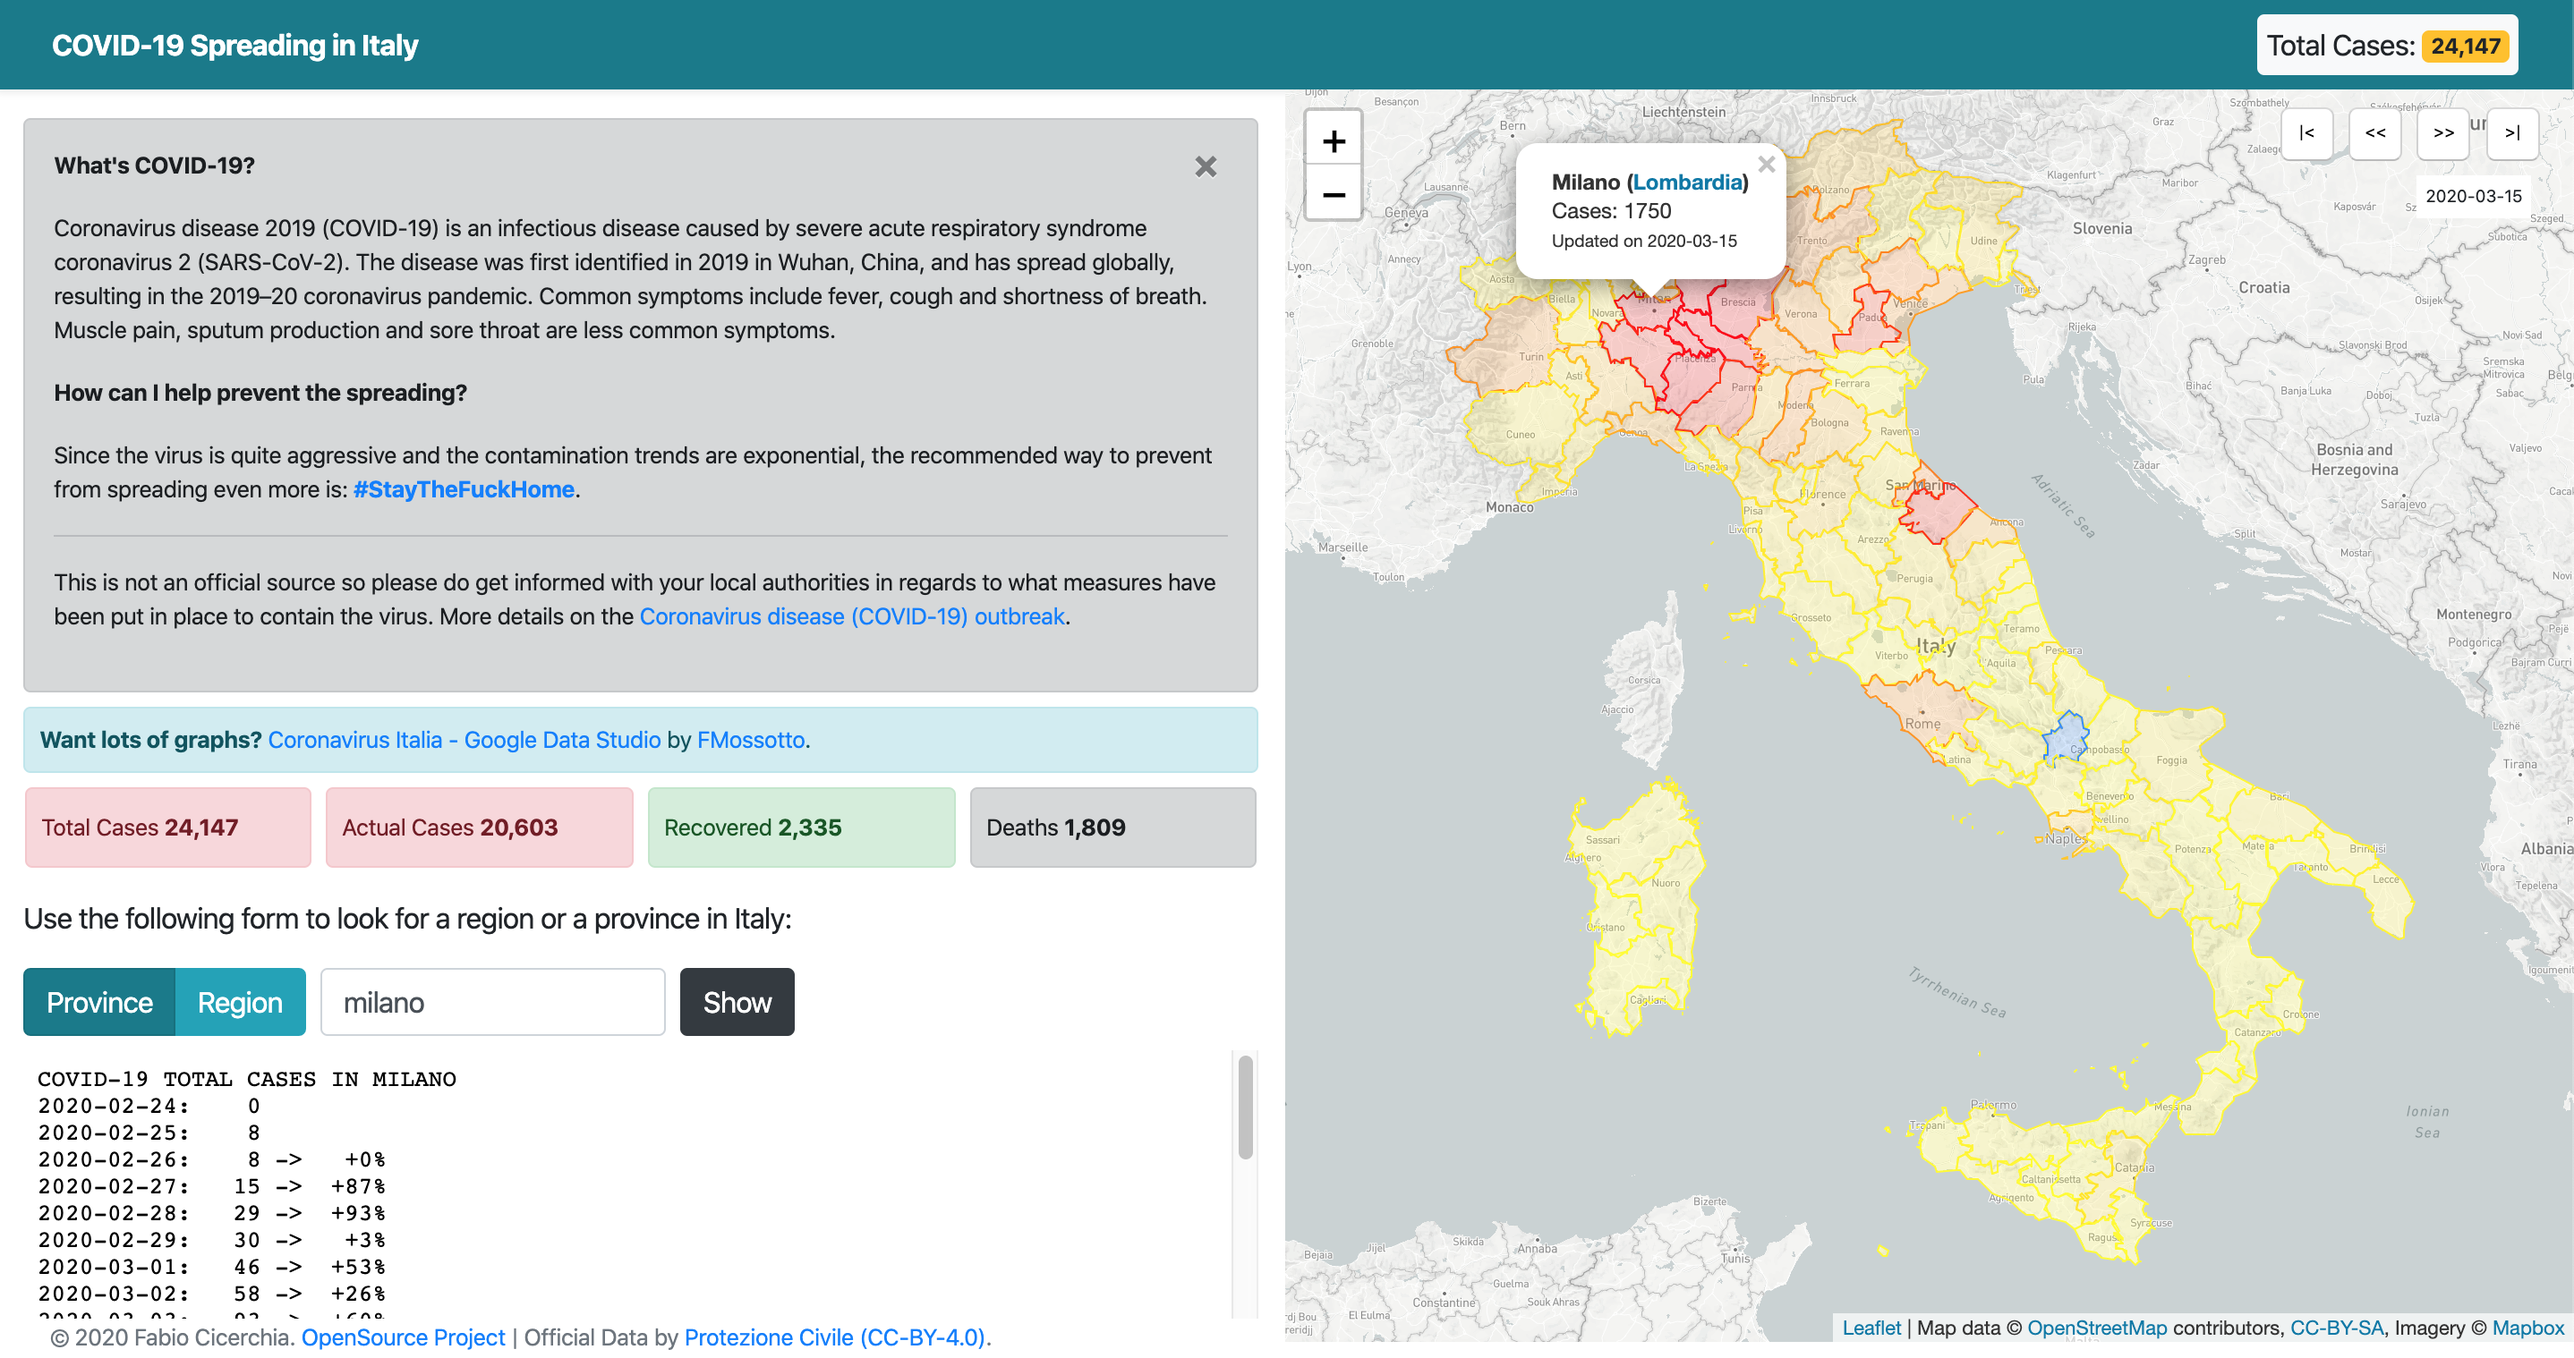
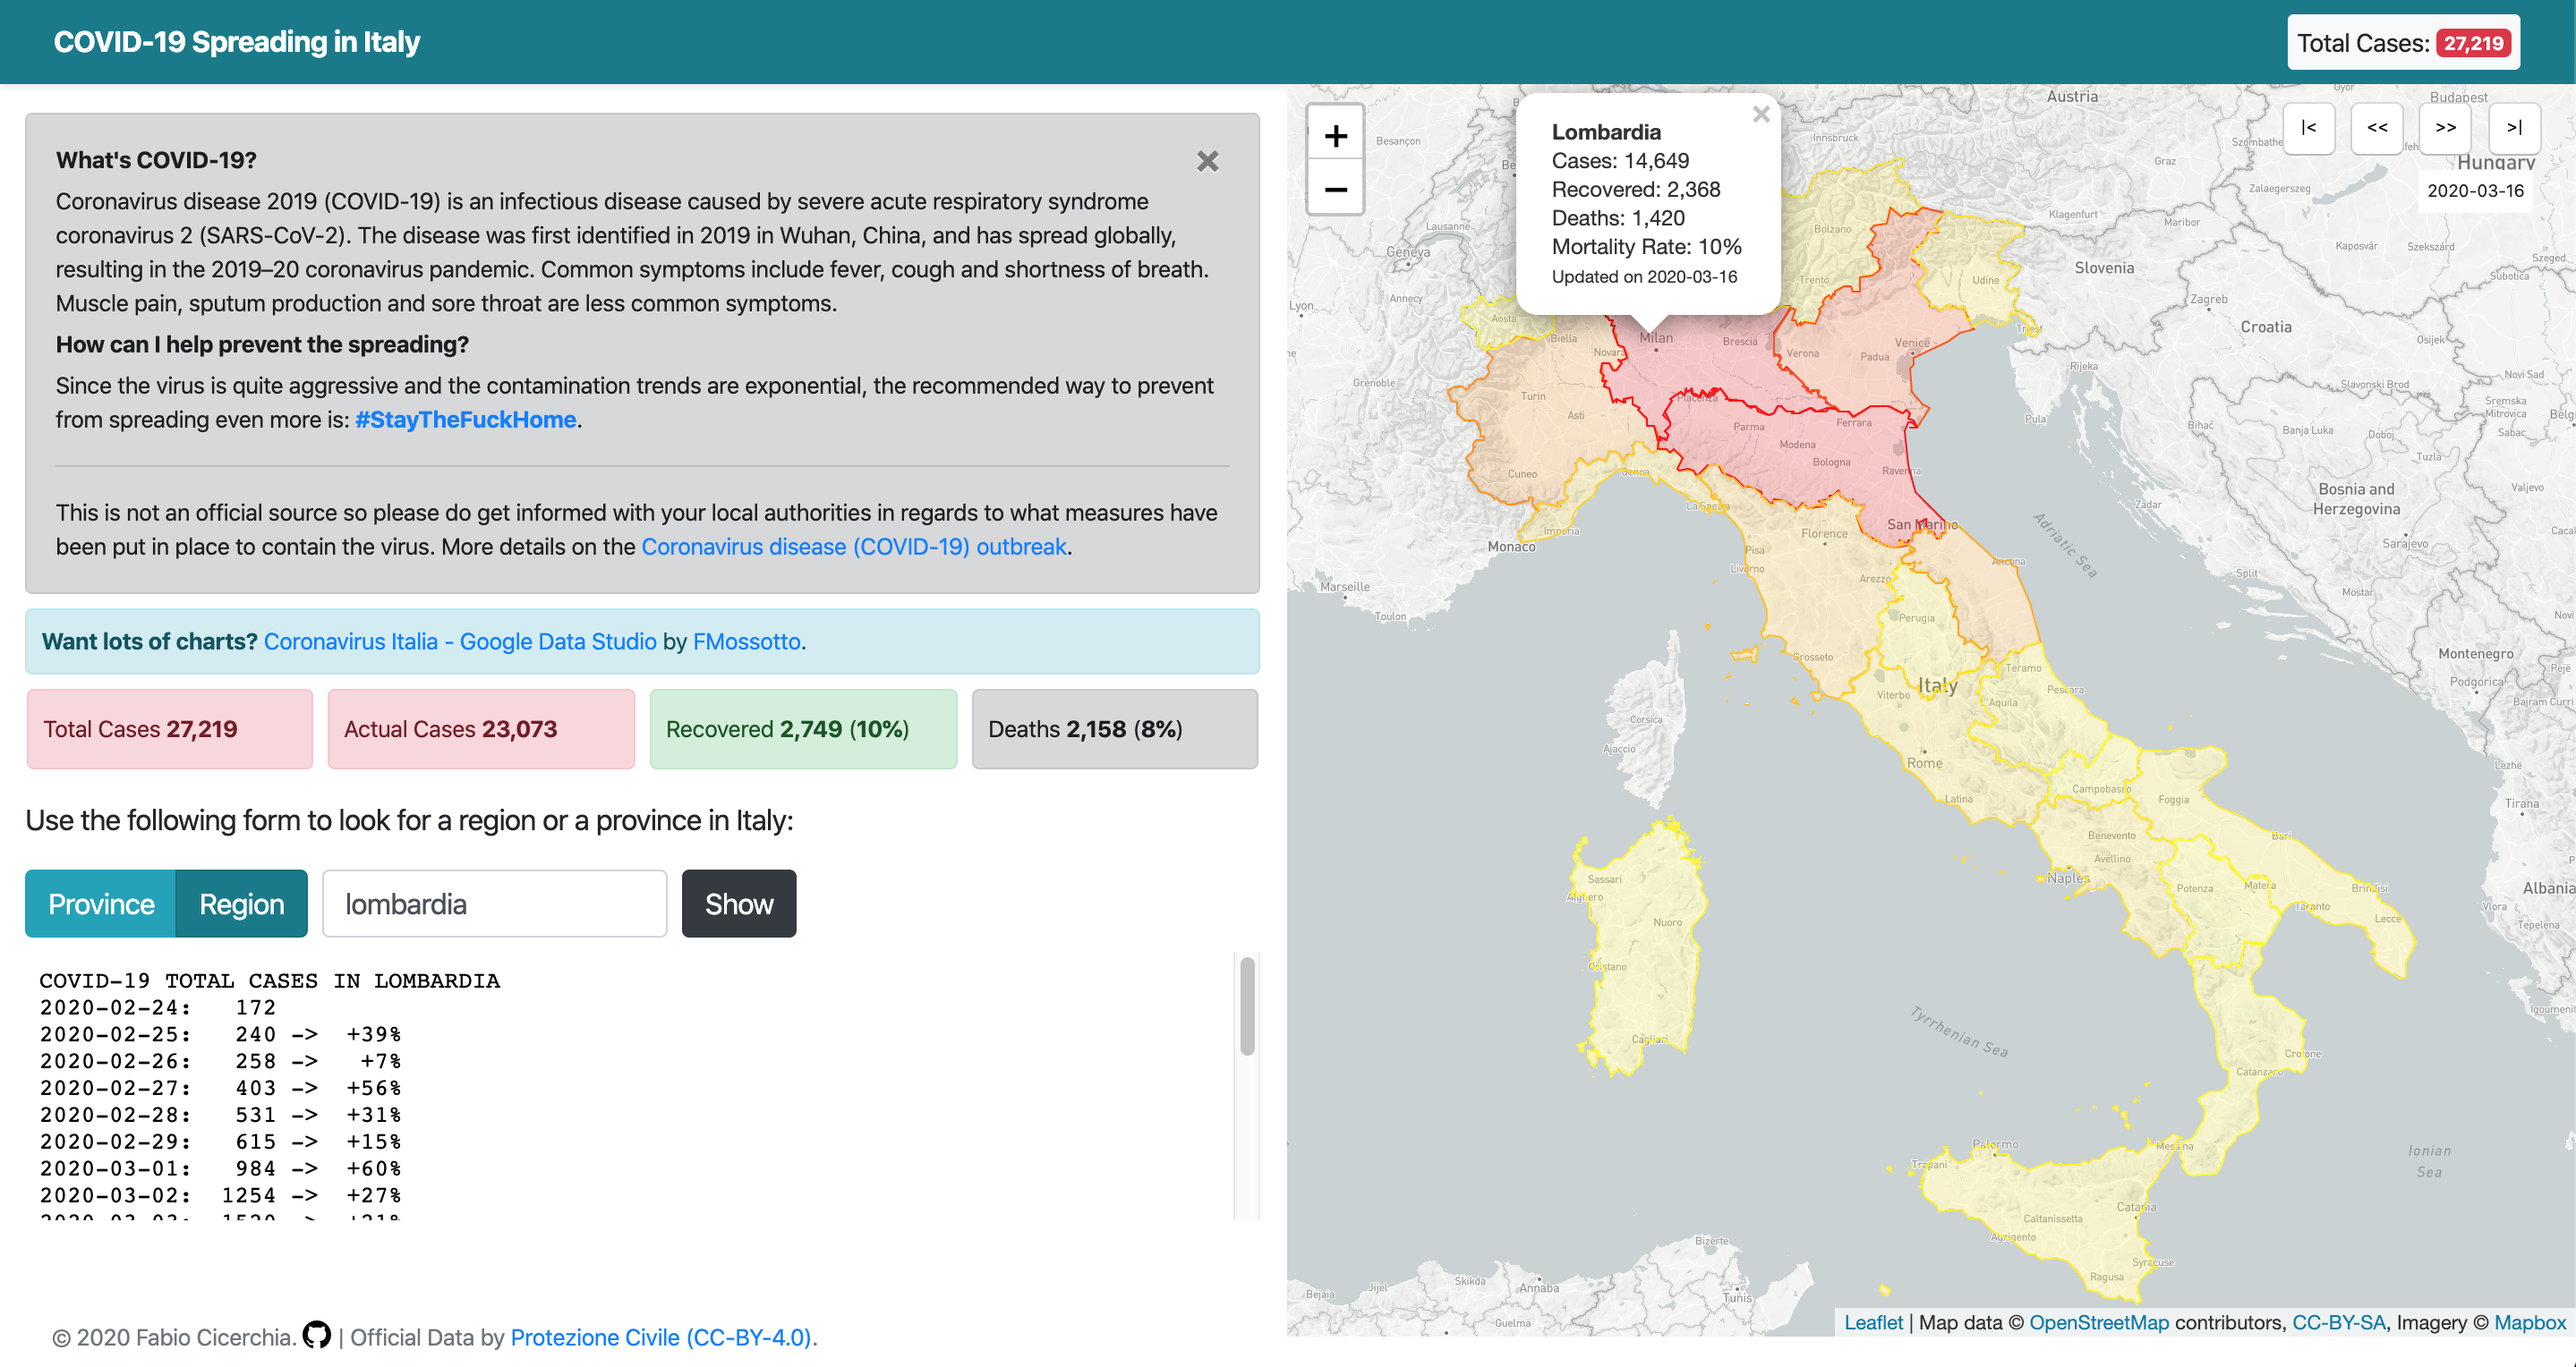
small improvements

Changed region(s): [[0.0, 0.0, 1.0, 0.9908], [0.4642, 0.7121, 0.4951, 0.836], [0.9903, 0.805, 1.0, 0.836]]

diff --git a/public/index.html b/public/index.html
@@ -20,7 +20,7 @@
                     <a href="/" class="navbar-brand">
                         <h1 class="small float-left m-0 font-weight-bold">COVID-19 Spreading in Italy</h1>
                     </a>
-                    <span class="float-right d-block btn btn-light py-0 py-sm-1 px-1 px-sm-1">Total Cases: <span class="badge badge-warning" id="totalCases">-</span></span>
+                    <span class="float-right d-block btn btn-sm btn-light py-0 py-sm-1 px-1 px-sm-1">Total Cases: <span class="badge badge-danger" id="totalCases">-</span></span>
                 </div>
             </div>
         </header>
@@ -32,18 +32,18 @@
                         <div class="alert alert-dark small p-3 mb-2 alert-dismissible" role="alert">
                             <button type="button" class="close" data-dismiss="alert" aria-label="Close"><span aria-hidden="true">&times;</span></button>
 
-                            <p><strong>What's COVID-19?</strong></p>
-                            <blockquote cite="https://en.wikipedia.org/wiki/Coronavirus_disease_2019">
+                            <p class="mb-1"><strong>What's COVID-19?</strong></p>
+                            <blockquote class="mb-1" cite="https://en.wikipedia.org/wiki/Coronavirus_disease_2019">
                                 Coronavirus disease 2019 (COVID-19) is an infectious disease caused by severe acute respiratory syndrome coronavirus 2
                                 (SARS-CoV-2). The disease was first identified in 2019 in Wuhan, China, and has spread globally, resulting in the 2019–20
                                 coronavirus pandemic. Common symptoms include fever, cough and shortness of breath. Muscle pain, sputum production and sore
                                 throat are less common symptoms.
                             </blockquote>
-                            <p><strong>How can I help prevent the spreading?</strong></p>
-                            <p>Since the virus is quite aggressive and the contamination trends are exponential, the recommended way to prevent from
+                            <p class="mb-1"><strong>How can I help prevent the spreading?</strong></p>
+                            <p class="mb-1">Since the virus is quite aggressive and the contamination trends are exponential, the recommended way to prevent from
                             spreading even more is: <a href="https://staythefuckhome.com/" target="_blank" class="font-weight-bold">#StayTheFuckHome</a>.</p>
 			    <hr>
-                            <p>This is not an official source so please do get informed with your local authorities in regards to what measures have
+                            <p class="mb-0">This is not an official source so please do get informed with your local authorities in regards to what measures have
                             been put in place to contain the virus. More details on the
                             <a href="https://www.who.int/emergencies/diseases/novel-coronavirus-2019" target="_blank">Coronavirus disease (COVID-19) outbreak</a>.</p>
                         </div>
@@ -59,10 +59,10 @@
                                 <div class="alert alert-danger small px-2" role="alert">Actual Cases <strong id="num_active"></strong></div>
                             </div>
                             <div class="col-3 px-1">
-                                <div class="alert alert-success small px-2" role="alert">Recovered <strong id="num_recover"></strong></div>
+                                <div class="alert alert-success small px-2" role="alert">Recovered <strong id="num_recover"></strong> (<strong id="num_recover_rate"></strong>)</div>
                             </div>
                             <div class="col-3 px-1 pr-3">
-				 <div class="alert alert-dark small px-2" role="alert">Deaths <strong id="num_death"></strong><br>Rate <strong id="num_death_rate"></strong></div>
+				 <div class="alert alert-dark small px-2" role="alert">Deaths <strong id="num_death"></strong> (<strong id="num_death_rate"></strong>)</div>
                             </div>
                         </div>
                         <p>Use the following form to look for a region or a province in Italy:</p>
@@ -102,7 +102,8 @@
                 <div class="col-12 col-sm-8 col-lg-12">
                     <small class="text-muted">
                         &copy; 2020 Fabio Cicerchia.
-                        <a href="https://github.com/fabiocicerchia/covid19-italy" target="_blank">OpenSource Project</a> |
+                        <a href="https://github.com/fabiocicerchia/covid19-italy" target="_blank" title="Hosted on GitHub">
+                            <svg class="octicon octicon-mark-github v-align-middle" height="16" viewBox="0 0 16 16" version="1.1" width="16" aria-hidden="true"><path fill-rule="evenodd" d="M8 0C3.58 0 0 3.58 0 8c0 3.54 2.29 6.53 5.47 7.59.4.07.55-.17.55-.38 0-.19-.01-.82-.01-1.49-2.01.37-2.53-.49-2.69-.94-.09-.23-.48-.94-.82-1.13-.28-.15-.68-.52-.01-.53.63-.01 1.08.58 1.23.82.72 1.21 1.87.87 2.33.66.07-.52.28-.87.51-1.07-1.78-.2-3.64-.89-3.64-3.95 0-.87.31-1.59.82-2.15-.08-.2-.36-1.02.08-2.12 0 0 .67-.21 2.2.82.64-.18 1.32-.27 2-.27.68 0 1.36.09 2 .27 1.53-1.04 2.2-.82 2.2-.82.44 1.1.16 1.92.08 2.12.51.56.82 1.27.82 2.15 0 3.07-1.87 3.75-3.65 3.95.29.25.54.73.54 1.48 0 1.07-.01 1.93-.01 2.2 0 .21.15.46.55.38A8.013 8.013 0 0016 8c0-4.42-3.58-8-8-8z"></path></svg></a> |
                         Official Data by <a href="https://github.com/pcm-dpc">Protezione Civile (CC-BY-4.0)</a>.
                     </small>
                 </div>

diff --git a/public/script.js b/public/script.js
@@ -91,17 +91,17 @@ function paintMap(type, data, lastUpdateDate) {
                            : normalisePlace(feature.properties.prov_name);
                var cases = data[place].total;
                var popupContent = '<strong>' + place + (type !== 'province' ? '' : ' (<a onclick="switchRegion(this)">'+feature.properties.reg_name+'</a>)') + '</strong><br>';
-               popupContent += 'Cases: ' + cases + '<br>';
+               popupContent += 'Cases: ' + cases.toLocaleString() + '<br>';
                if (type === 'region') {
-                   popupContent += 'Recovered: ' + data[place].recovered + '<br>';
-                   popupContent += 'Deaths: ' + data[place].death + '<br>';
+                   popupContent += 'Recovered: ' + data[place].recovered.toLocaleString() + '<br>';
+                   popupContent += 'Deaths: ' + data[place].death.toLocaleString() + '<br>';
                    popupContent += 'Mortality Rate: ' + (100 / cases * data[place].death).toFixed(0)  + '%<br>';
                }
                popupContent += '<small>Updated on ' + lastUpdateDate + '</small>';
 
                if (place === 'p.a. trento') {
                    popupContent += '<br><strong>P.A. Bolzano</strong><br>';
-                   popupContent += 'Cases: ' + data['p.a. bolzano'].total + '<br>';
+                   popupContent += 'Cases: ' + data['p.a. bolzano'].total.toLocaleString() + '<br>';
                    popupContent += '<small>Updated on ' + lastUpdateDate + '</small>';
                }
                layer.bindPopup(popupContent);
@@ -199,6 +199,7 @@ Papa.parse('/dpc-covid19-ita-regioni.csv', {
         document.getElementById('num_death').innerHTML = deaths.toLocaleString();
         document.getElementById('num_death_rate').innerHTML = (100 / sumCases * deaths).toFixed(0) + '%';
         document.getElementById('num_recover').innerHTML = recovered.toLocaleString();
+        document.getElementById('num_recover_rate').innerHTML = (100 / sumCases * recovered).toFixed(0) + '%';
     }
 });
 

diff --git a/public/style.css b/public/style.css
@@ -9,6 +9,7 @@ footer {
     position: absolute;
     bottom: 0.5em;
 }
+footer a svg { margin-top: -5px; }
 #dayFirst,
 #dayBefore,
 #dayAfter,
